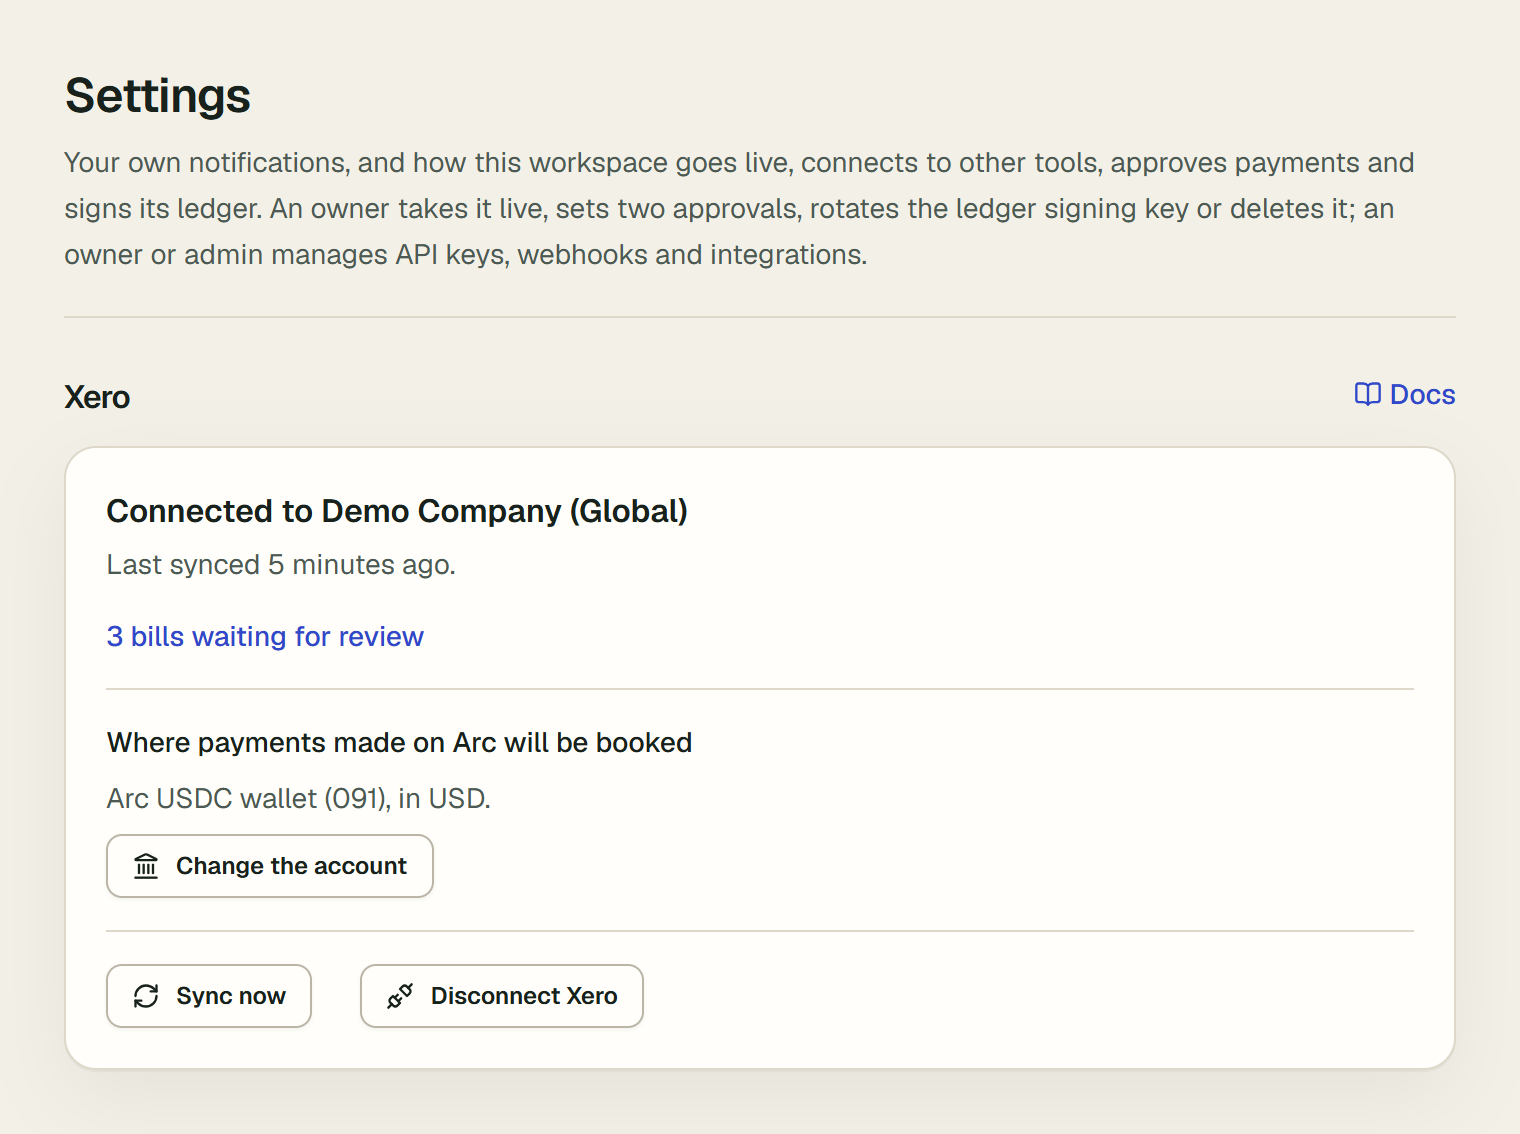
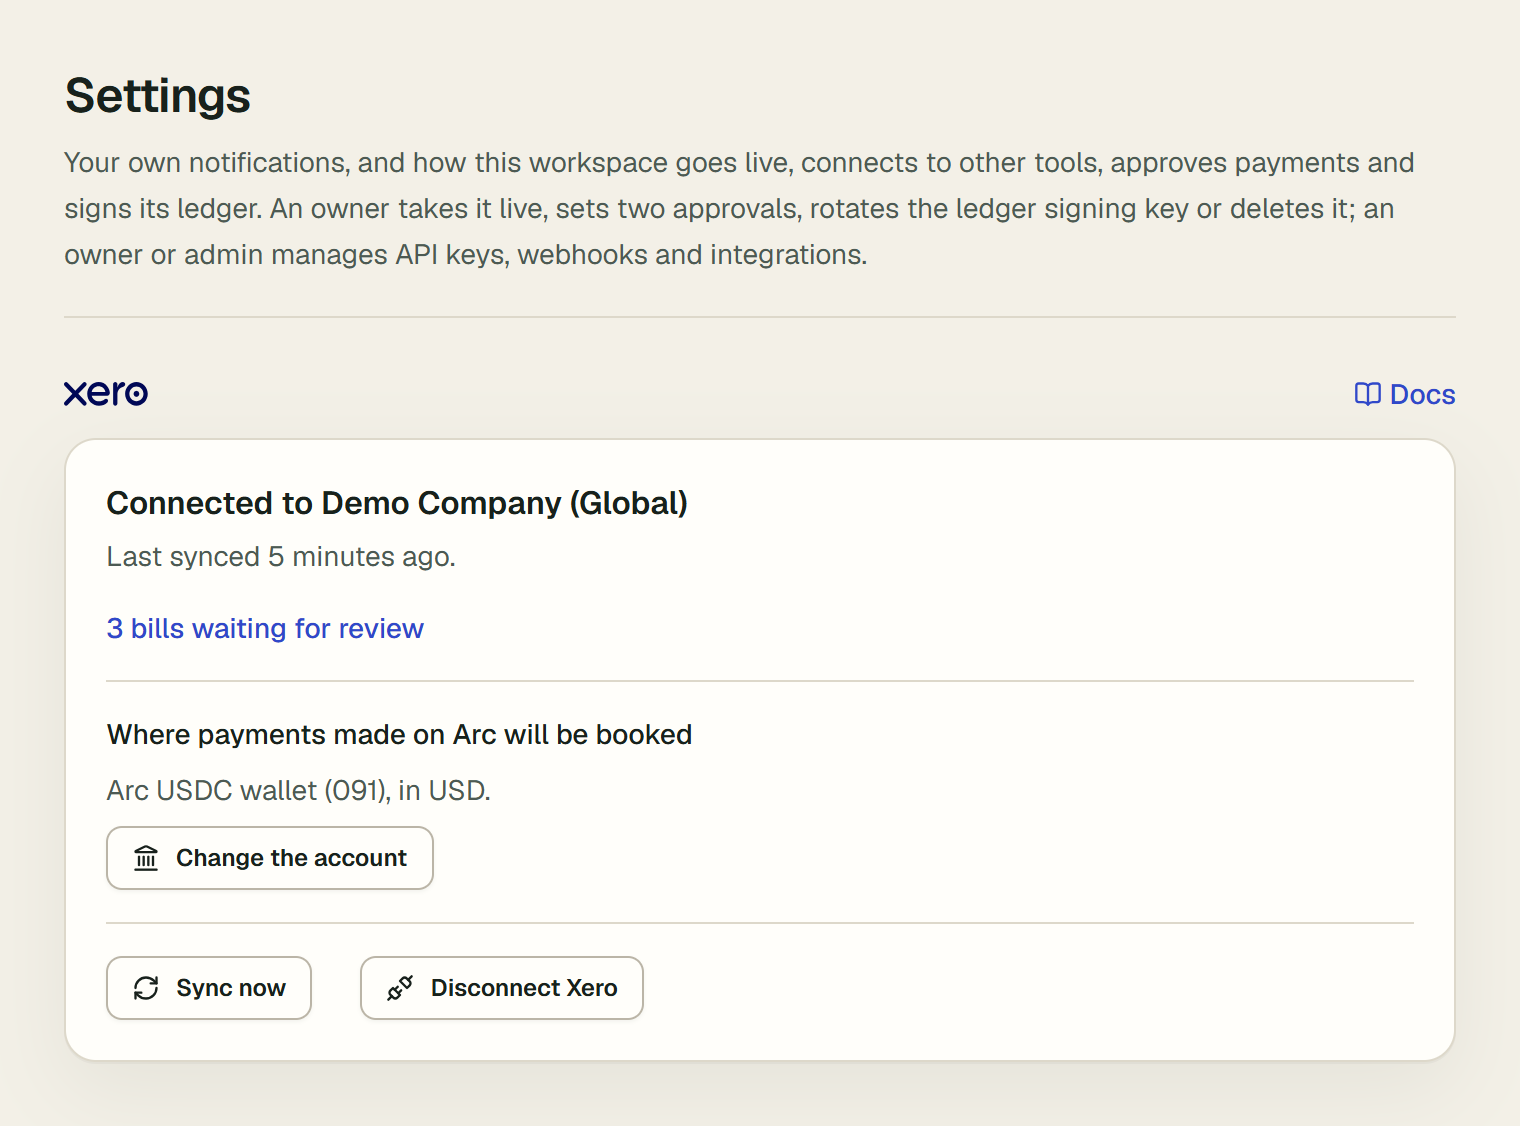
Head the Xero, QuickBooks and HubSpot cards and pages with their marks
Each tool's Settings card, connect page, Xero organisation pick and launch page
shows its mark beside its name, as Slack's card does. The three guides'
Settings screenshots are photographed again to match.

diff --git a/tests/integration-marks.test.tsx b/tests/integration-marks.test.tsx
@@ -1,0 +1,134 @@
+import { renderToStaticMarkup } from "react-dom/server";
+import { beforeEach, describe, expect, it, vi } from "vitest";
+import type { OrgMembership } from "@/lib/auth/membership";
+
+/**
+ * The connectors' marks where the product shows them (docs/superpowers/specs/2026-10-12-integration-marks-design.md):
+ * each Settings card, connect page and launch page shows Xero's wordmark, QuickBooks' green qb circle or HubSpot's sprocket beside the tool's name,
+ * as decoration (an empty alt, hidden from assistive technology). Xero's wordmark spells its name, so there the name is
+ * for screen readers; QuickBooks' circle and HubSpot's sprocket stand before the written name.
+ */
+
+const { memberships, pending } = vi.hoisted(() => ({
+  memberships: { value: [] as OrgMembership[] },
+  pending: { value: null as null | { id: string; choices: Array<{ externalOrgId: string; name: string }> } },
+}));
+
+vi.mock("server-only", () => ({}));
+vi.mock("next/navigation", () => ({
+  notFound: () => {
+    throw new Error("notFound");
+  },
+  redirect: (to: string) => {
+    throw new Error(`redirect ${to}`);
+  },
+  useRouter: () => ({ refresh: vi.fn() }),
+}));
+vi.mock("@/lib/auth/session", () => ({ verifySession: vi.fn(async () => ({ id: "u1", email: "dana@example.com" })) }));
+vi.mock("@/lib/auth/membership", () => ({ membershipsOf: vi.fn(async () => memberships.value) }));
+vi.mock("@/lib/accounting-providers", () => ({ accountingProviderOn: () => true }));
+vi.mock("@/lib/hubspot/settings", () => ({ hubspotSettingsFromEnv: () => ({}) }));
+vi.mock("@/lib/connectors/token-store", () => ({ pendingChoice: vi.fn(async () => pending.value) }));
+vi.mock("@/lib/dal/scope", () => ({ withOrg: (_org: string, fn: () => Promise<unknown>) => fn() }));
+vi.mock("@/components/vx/SiteChrome", () => ({ SiteHeader: () => null, SiteFooter: () => null }));
+vi.mock("@/app/actions/accounting", () => ({
+  syncAccountingNowAction: vi.fn(),
+  disconnectAccountingAction: vi.fn(),
+  loadAccountingAccountsAction: vi.fn(),
+  chooseAccountingAccountAction: vi.fn(),
+}));
+vi.mock("@/app/actions/hubspot", () => ({ syncHubSpotNowAction: vi.fn(), disconnectHubSpotAction: vi.fn() }));
+
+import AccountingPanel from "@/components/AccountingPanel";
+import HubSpotPanel from "@/components/HubSpotPanel";
+import { AccountingConnect } from "@/app/integrations/_accounting/AccountingConnect";
+import { AccountingLaunch } from "@/app/integrations/_accounting/AccountingLaunch";
+import HubSpotConnectPage from "@/app/integrations/hubspot/connect/page";
+import HubSpotIntegrationPage from "@/app/integrations/hubspot/page";
+import type { CrmPanelView } from "@/lib/connectors/crm-review";
+
+const workspace = (slug: string): OrgMembership => ({ orgId: `org-${slug}`, slug, name: slug, mode: "live", role: "owner", network: "arc-testnet" });
+
+beforeEach(() => {
+  memberships.value = [workspace("acme")];
+  pending.value = null;
+});
+
+/** The mark and what is written right after it, as `[brand] words`, with the sr-only words marked. */
+function marked(markup: string): string[] {
+  return [...markup.matchAll(/<img src="\/brands\/([\w-]+)\.svg" alt="" aria-hidden="true"[^>]*\/>(?:<\/span>)?\s*(<span[^>]*>)?([^<]*)/g)].map(
+    ([, brand, span, words]) => `[${brand}] ${span?.includes("sr-only") ? `(sr) ${words}` : words}`.trim()
+  );
+}
+
+/** The heading with this id, or the first h1. */
+const heading = (markup: string, tag: "h1" | "h2", id?: string) => {
+  const match = markup.match(new RegExp(`<${tag}${id ? `[^>]*id="${id}"` : ""}[^>]*>([^]*?)</${tag}>`));
+  if (!match) throw new Error(`no ${tag} ${id ?? ""}`);
+  return match[1].replace(/<!-- -->/g, "");
+};
+
+describe("the Settings cards", () => {
+  it("head Xero's card with its wordmark, the name for screen readers", () => {
+    const markup = renderToStaticMarkup(<AccountingPanel provider="xero" orgSlug="acme" view={{ state: "not_connected" }} canManage notice={null} />);
+    expect(marked(heading(markup, "h2", "xero-title"))).toEqual(["[xero] (sr) Xero"]);
+    expect(heading(markup, "h2", "xero-title")).toMatch(/width="42" height="12"/);
+  });
+
+  it("head QuickBooks' card with its qb circle beside the written name", () => {
+    const markup = renderToStaticMarkup(<AccountingPanel provider="quickbooks" orgSlug="acme" view={{ state: "not_set_up" }} canManage notice={null} />);
+    expect(marked(heading(markup, "h2", "quickbooks-title"))).toEqual(["[quickbooks] QuickBooks"]);
+  });
+
+  it("head HubSpot's card with its sprocket beside the written name", () => {
+    const markup = renderToStaticMarkup(<HubSpotPanel orgSlug="acme" view={{ state: "not_connected" } as CrmPanelView} canManage notice={null} />);
+    expect(marked(heading(markup, "h2", "hubspot-title"))).toEqual(["[hubspot] HubSpot"]);
+  });
+
+  it("keep the mark level with Docs, as Slack's does", () => {
+    for (const markup of [
+      renderToStaticMarkup(<AccountingPanel provider="xero" orgSlug="acme" view={{ state: "not_set_up" }} canManage notice={null} />),
+      renderToStaticMarkup(<HubSpotPanel orgSlug="acme" view={{ state: "not_set_up" } as CrmPanelView} canManage notice={null} />),
+    ]) {
+      // React may add a preload <link> for the image ahead of the section.
+      expect(markup).toMatch(/<section[^>]*><div class="[^"]*items-center[^"]*"/);
+    }
+  });
+});
+
+describe("the connect pages", () => {
+  const connect = async (provider: "xero" | "quickbooks" | "hubspot", query: Record<string, string> = {}) => {
+    const searchParams = Promise.resolve(query);
+    return renderToStaticMarkup(provider === "hubspot" ? await HubSpotConnectPage({ searchParams }) : await AccountingConnect({ provider, searchParams }));
+  };
+
+  it("show the tool's mark beside Connect Xero, Connect QuickBooks and Connect HubSpot", async () => {
+    expect(marked(heading(await connect("xero"), "h1"))).toEqual(["[xero] Connect Xero"]);
+    expect(marked(heading(await connect("quickbooks"), "h1"))).toEqual(["[quickbooks] Connect QuickBooks"]);
+    expect(marked(heading(await connect("hubspot"), "h1"))).toEqual(["[hubspot] Connect HubSpot"]);
+  });
+
+  it("draw the mark at the heading's size, level with its first line when the heading wraps", async () => {
+    const h1 = heading(await connect("quickbooks"), "h1");
+    expect(h1).toMatch(/^<span class="flex h-8 shrink-0 items-center"><img src="\/brands\/quickbooks\.svg"[^>]*width="24" height="24"/);
+    expect(await connect("hubspot")).toMatch(/<h1 class="flex items-start gap-3 text-2xl/);
+  });
+
+  it("keep Xero's mark on the organisation pick after Xero", async () => {
+    pending.value = { id: "0b6c1c9e-4a4f-4a7e-9b1e-000000000d04", choices: [{ externalOrgId: "tenant-1", name: "Demo Company (Global)" }] };
+    const markup = await connect("xero", { org: "acme", choose: pending.value.id });
+    expect(marked(heading(markup, "h1")).map((line) => line.replace(/\s+/g, " "))).toEqual(["[xero] Pick the Xero organisation"]);
+  });
+});
+
+describe("the launch pages, for a person with several workspaces", () => {
+  beforeEach(() => {
+    memberships.value = [workspace("acme"), workspace("beta")];
+  });
+
+  it("head each page with the tool's mark and name", async () => {
+    expect(marked(heading(renderToStaticMarkup(await AccountingLaunch({ provider: "xero" })), "h1"))).toEqual(["[xero] (sr) Xero"]);
+    expect(marked(heading(renderToStaticMarkup(await AccountingLaunch({ provider: "quickbooks" })), "h1"))).toEqual(["[quickbooks] QuickBooks"]);
+    expect(marked(heading(renderToStaticMarkup(await HubSpotIntegrationPage()), "h1"))).toEqual(["[hubspot] HubSpot"]);
+  });
+});

diff --git a/src/app/integrations/_accounting/AccountingConnect.tsx b/src/app/integrations/_accounting/AccountingConnect.tsx
@@ -5,6 +5,7 @@ import { Button } from "@/components/ui/Button";
 import { Callout } from "@/components/ui/Callout";
 import { EmptyState } from "@/components/ui/EmptyState";
 import { NativeCheckbox, NativeRadioGroup } from "@/components/ui/NativeChoice";
+import { BrandMark, PROVIDER_MARKS } from "@/components/vx/BrandMarks";
 import { SiteFooter, SiteHeader } from "@/components/vx/SiteChrome";
 import { accountingProviderOn } from "@/lib/accounting-providers";
 import { membershipsOf } from "@/lib/auth/membership";
@@ -68,6 +69,8 @@ export async function AccountingConnect({ provider, searchParams }: { provider: 
       ? await withOrg(chosen.orgId, () => pendingChoice(chosen.orgId, choose, user.id), { userId: user.id }).catch(() => null)
       : null;
   const atTheTool = AT_THE_TOOL[provider];
+  // The tool's mark beside the heading, decoration beside its written name (integration marks design).
+  const mark = PROVIDER_MARKS[provider];
 
   return (
     <div className="flex min-h-dvh flex-col">
@@ -100,8 +103,13 @@ export async function AccountingConnect({ provider, searchParams }: { provider: 
             />
           ) : pending && chosen ? (
             <>
-              <h1 className="text-2xl font-semibold tracking-[-0.02em] text-ink">
-                Pick the {label} {organisation}
+              <h1 className="flex items-start gap-3 text-2xl font-semibold tracking-[-0.02em] text-ink">
+                <span className="flex h-8 shrink-0 items-center">
+                  <BrandMark brand={mark} size={24} />
+                </span>
+                <span>
+                  Pick the {label} {organisation}
+                </span>
               </h1>
               <p className="mt-3 text-sm text-ink-2">
                 {label} gave access to more than one {organisation}. Pick the one whose bills come into{" "}
@@ -129,7 +137,12 @@ export async function AccountingConnect({ provider, searchParams }: { provider: 
             </>
           ) : (
             <>
-              <h1 className="text-2xl font-semibold tracking-[-0.02em] text-ink">Connect {label}</h1>
+              <h1 className="flex items-start gap-3 text-2xl font-semibold tracking-[-0.02em] text-ink">
+                <span className="flex h-8 shrink-0 items-center">
+                  <BrandMark brand={mark} size={24} />
+                </span>
+                <span>Connect {label}</span>
+              </h1>
               <p className="mt-3 text-sm text-ink-2">{INTRO[provider]}</p>
               {error && (
                 <p role="alert" className="mt-4 text-sm text-refused">

diff --git a/src/components/AccountingPanel.tsx b/src/components/AccountingPanel.tsx
@@ -11,6 +11,7 @@ import { FormMessage } from "@/components/ui/FormMessage";
 import { SectionHeader } from "@/components/ui/SectionHeader";
 import { SubmitButton } from "@/components/ui/SubmitButton";
 import { useActionForm } from "@/components/ui/useActionForm";
+import { BrandName, PROVIDER_MARKS } from "@/components/vx/BrandMarks";
 import { accountName } from "@/lib/connectors/booking";
 import type { AccountingPanelView } from "@/lib/connectors/panel";
 import { PROVIDER_LABELS, PROVIDER_WORDS, type ProviderId } from "@/lib/connectors/provider";
@@ -88,7 +89,8 @@ function ConnectButton({ provider, orgSlug, label }: { provider: ProviderId; org
 
 /**
  * An accounting tool's section of Settings (docs/superpowers/specs/2026-10-12-xero-connector-design.md X15, X16, X19;
- * docs/superpowers/specs/2026-10-12-quickbooks-connector-design.md Q15, Q19), one per tool: its status in business
+ * docs/superpowers/specs/2026-10-12-quickbooks-connector-design.md Q15, Q19), one per tool, headed by its mark
+ * (docs/superpowers/specs/2026-10-12-integration-marks-design.md): its status in business
  * words, never "connected" while the last sync failed; the bills waiting for review; a reconnect when the tool no
  * longer takes the connection; Sync now and Disconnect; and the account payments made on Arc will be booked to. Every
  * member sees the status; an owner or admin gets the controls. `view` carries no token.
@@ -111,7 +113,13 @@ export default function AccountingPanel({
   const told = notice ? accountingNotices(provider)[notice] : undefined;
   return (
     <section aria-labelledby={`${provider}-title`} id={provider}>
-      <SectionHeader id={`${provider}-title`} title={label} action={<DocsLink href={`/docs/guides/${provider}`} topic={label} />} />
+      <SectionHeader
+        id={`${provider}-title`}
+        // The mark has no text baseline: the title is a flex row, centred, so Docs sits level with it.
+        className="items-center"
+        title={<BrandName brand={PROVIDER_MARKS[provider]} name={label} />}
+        action={<DocsLink href={`/docs/guides/${provider}`} topic={label} />}
+      />
       <Card className="space-y-4 p-5">
         {told && (
           <p role="status" className={told.tone === "success" ? "text-sm text-ink" : "text-sm text-refused"}>

diff --git a/src/components/HubSpotPanel.tsx b/src/components/HubSpotPanel.tsx
@@ -10,6 +10,7 @@ import { FormMessage } from "@/components/ui/FormMessage";
 import { SectionHeader } from "@/components/ui/SectionHeader";
 import { SubmitButton } from "@/components/ui/SubmitButton";
 import { useActionForm } from "@/components/ui/useActionForm";
+import { BrandMark } from "@/components/vx/BrandMarks";
 import type { CrmPanelView } from "@/lib/connectors/crm-review";
 
 const INITIAL: HubSpotActionResult = { ok: false, message: "" };
@@ -66,7 +67,8 @@ function ConnectButton({ orgSlug, label }: { orgSlug: string; label: string }) {
 }
 
 /**
- * The HubSpot section of Settings (docs/superpowers/specs/2026-10-12-hubspot-connector-design.md H16, H17, H20): its
+ * The HubSpot section of Settings (docs/superpowers/specs/2026-10-12-hubspot-connector-design.md H16, H17, H20), headed
+ * by HubSpot's mark (docs/superpowers/specs/2026-10-12-integration-marks-design.md): its
  * status in business words, never "connected" while the last sync failed; the won deals to plan and the planned deals
  * changed in HubSpot, each linking to Bills & receivables; a reconnect when HubSpot no longer takes the connection; Sync
  * now and Disconnect HubSpot. Every member sees the status; an owner or admin gets the controls. `view` carries no token.
@@ -76,7 +78,18 @@ export default function HubSpotPanel({ orgSlug, view, canManage, notice }: { org
   const deals = `/o/${orgSlug}/invoices#from-hubspot`;
   return (
     <section aria-labelledby="hubspot-title" id="hubspot">
-      <SectionHeader id="hubspot-title" title="HubSpot" action={<DocsLink href="/docs/guides/hubspot" topic="HubSpot" />} />
+      <SectionHeader
+        id="hubspot-title"
+        // The mark has no text baseline: the title is a flex row, centred, so Docs sits level with it.
+        className="items-center"
+        title={
+          <span className="flex items-center gap-2">
+            <BrandMark brand="hubspot" />
+            HubSpot
+          </span>
+        }
+        action={<DocsLink href="/docs/guides/hubspot" topic="HubSpot" />}
+      />
       <Card className="space-y-4 p-5">
         {told && (
           <p role="status" className={told.tone === "success" ? "text-sm text-ink" : "text-sm text-refused"}>

diff --git a/src/app/integrations/hubspot/connect/page.tsx b/src/app/integrations/hubspot/connect/page.tsx
@@ -6,6 +6,7 @@ import { Button } from "@/components/ui/Button";
 import { Callout } from "@/components/ui/Callout";
 import { EmptyState } from "@/components/ui/EmptyState";
 import { NativeCheckbox, NativeRadioGroup } from "@/components/ui/NativeChoice";
+import { BrandMark } from "@/components/vx/BrandMarks";
 import { SiteFooter, SiteHeader } from "@/components/vx/SiteChrome";
 import { membershipsOf } from "@/lib/auth/membership";
 import { can } from "@/lib/auth/roles";
@@ -63,7 +64,12 @@ export default async function HubSpotConnectPage({ searchParams }: ConnectPagePr
             />
           ) : (
             <>
-              <h1 className="text-2xl font-semibold tracking-[-0.02em] text-ink">Connect HubSpot</h1>
+              <h1 className="flex items-start gap-3 text-2xl font-semibold tracking-[-0.02em] text-ink">
+                <span className="flex h-8 shrink-0 items-center">
+                  <BrandMark brand="hubspot" size={24} />
+                </span>
+                <span>Connect HubSpot</span>
+              </h1>
               <p className="mt-3 text-sm text-ink-2">
                 Bring your customers and won deals in from HubSpot. Each won deal waits for you on Bills & receivables, and becomes a deal with its
                 collection schedule only when you plan it.

diff --git a/src/app/integrations/_accounting/AccountingLaunch.tsx b/src/app/integrations/_accounting/AccountingLaunch.tsx
@@ -3,6 +3,7 @@ import Link from "next/link";
 import { notFound, redirect } from "next/navigation";
 import { Button } from "@/components/ui/Button";
 import { EmptyState } from "@/components/ui/EmptyState";
+import { BrandName, PROVIDER_MARKS } from "@/components/vx/BrandMarks";
 import { SiteFooter, SiteHeader } from "@/components/vx/SiteChrome";
 import { accountingProviderOn } from "@/lib/accounting-providers";
 import { membershipsOf } from "@/lib/auth/membership";
@@ -41,7 +42,9 @@ export async function AccountingLaunch({ provider }: { provider: ProviderId }) {
             />
           ) : (
             <>
-              <h1 className="text-2xl font-semibold tracking-[-0.02em] text-ink">{label}</h1>
+              <h1 className="text-2xl font-semibold tracking-[-0.02em] text-ink">
+                <BrandName brand={PROVIDER_MARKS[provider]} name={label} size={24} className="gap-3" />
+              </h1>
               <p className="mt-3 text-sm text-ink-2">Pick the workspace whose {label} settings you want.</p>
               <ul className="mt-6 divide-y divide-line rounded-lg border border-line">
                 {memberships.map((membership) => (

diff --git a/src/app/integrations/hubspot/page.tsx b/src/app/integrations/hubspot/page.tsx
@@ -4,6 +4,7 @@ import Link from "next/link";
 import { notFound, redirect } from "next/navigation";
 import { Button } from "@/components/ui/Button";
 import { EmptyState } from "@/components/ui/EmptyState";
+import { BrandName } from "@/components/vx/BrandMarks";
 import { SiteFooter, SiteHeader } from "@/components/vx/SiteChrome";
 import { membershipsOf } from "@/lib/auth/membership";
 import { verifySession } from "@/lib/auth/session";
@@ -42,7 +43,9 @@ export default async function HubSpotIntegrationPage() {
             />
           ) : (
             <>
-              <h1 className="text-2xl font-semibold tracking-[-0.02em] text-ink">HubSpot</h1>
+              <h1 className="text-2xl font-semibold tracking-[-0.02em] text-ink">
+                <BrandName brand="hubspot" name="HubSpot" size={24} className="gap-3" />
+              </h1>
               <p className="mt-3 text-sm text-ink-2">Pick the workspace whose HubSpot settings you want.</p>
               <ul className="mt-6 divide-y divide-line rounded-lg border border-line">
                 {memberships.map((membership) => (
